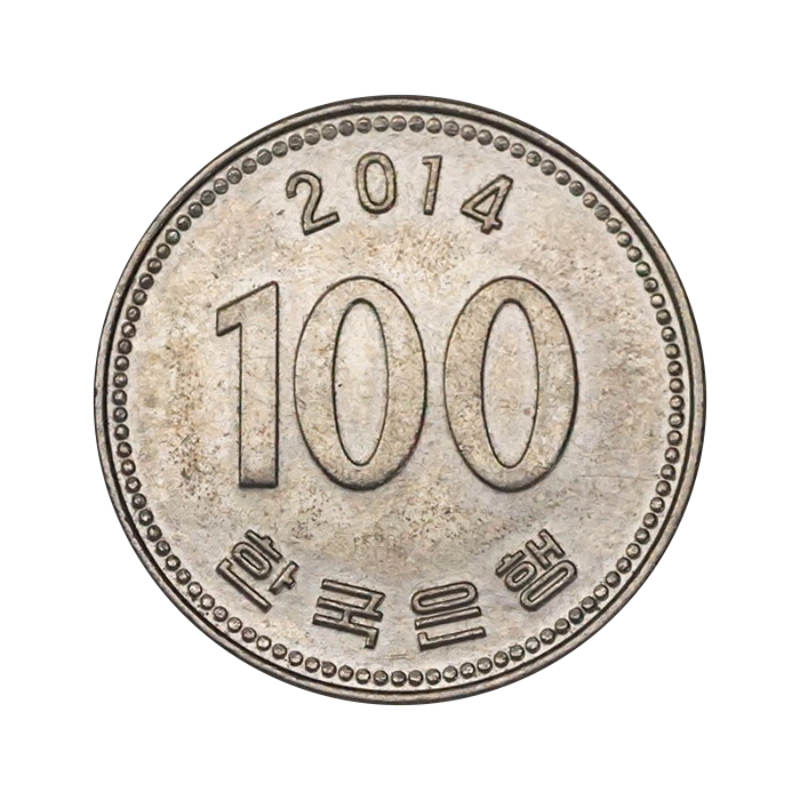
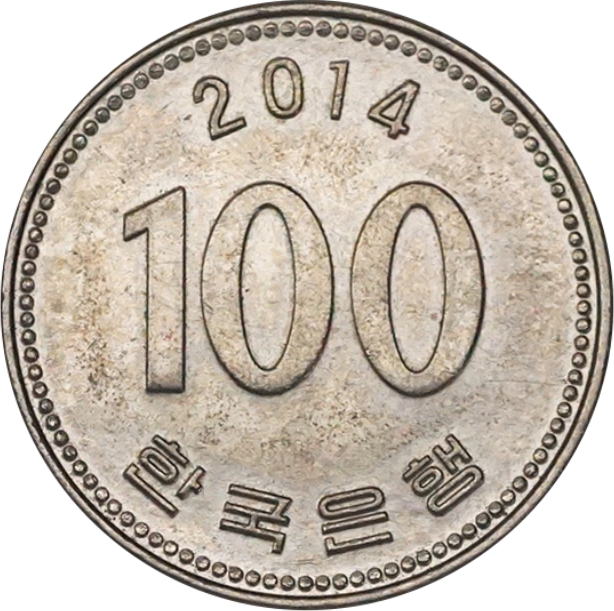
update ui

diff --git a/styles.css b/styles.css
@@ -1,6 +1,6 @@
 /* 디자인 시스템 — design-system.md §2~7. 고정 프레임(≤500px·100vh, §8.3). */
 :root {
-  --color-bg: #1e2126;
+  --color-bg: #9aa0a6;
   --color-surface: #2a2e35;
   --color-primary: #2f80ed;
   --color-success: #27ae60;
@@ -48,7 +48,9 @@ body {
   width: 100%;
   max-width: 500px; /* REQ-A18: 최대 500px */
   height: 100vh; /* REQ-A18: 100vh */
-  background: var(--color-bg);
+  background-image: url('/resources/wall.jpg');
+  background-size: 100% 100%;
+  background-repeat: no-repeat;
   position: relative;
   overflow: hidden;
   display: flex;
@@ -115,12 +117,12 @@ body {
   background-size: 100% 100%;
   background-repeat: no-repeat;
 }
-/* device 이미지 반투명화: foreground에 흰색 35% 오버레이 (screen-layouts §2) */
+/* device 이미지 반투명화: foreground에 흰색 20% 오버레이 (screen-layouts §2) */
 .device::before {
   content: '';
   position: absolute;
   inset: 0;
-  background: rgba(255, 255, 255, 0.35);
+  background: rgba(255, 255, 255, 0.2);
   pointer-events: none;
   z-index: 0;
 }
@@ -133,8 +135,8 @@ body {
 
 /* ⑤ 상품 그리드 3×3 (좌상단) */
 .grid {
-  top: 6%;
-  left: 3%;
+  top: 4%;
+  left: 5%;
   width: 60%;
   height: 66%;
   display: grid;
@@ -224,8 +226,8 @@ body {
 /* ② 잔액 표시 (우상단) */
 .balance {
   top: 8%;
-  right: 3%;
-  width: 34%;
+  right: 2%;
+  width: 30%;
   height: 9%;
   background: var(--color-display-bg);
   color: var(--color-display-fg);
@@ -244,8 +246,8 @@ body {
 /* ① 투입 공간 (우측 중단) */
 .drop {
   top: 22%;
-  right: 3%;
-  width: 34%;
+  right: 2%;
+  width: 30%;
   height: 22%;
   border: 2px dashed var(--color-warning);
   border-radius: 8px;
@@ -269,8 +271,8 @@ body {
 /* ⓡ 반환 버튼 (① 바로 아래) */
 .refund {
   top: 46%;
-  right: 3%;
-  width: 34%;
+  right: 2%;
+  width: 30%;
   height: 7%;
   border: 2px solid var(--color-danger);
   color: var(--color-danger);
@@ -287,10 +289,10 @@ body {
 
 /* ③ 배출 공간 (좌하단) */
 .dispense {
-  bottom: 7%;
-  left: 15%;
-  width: 44%;
-  height: 16%;
+  bottom: 9%;
+  left: 12%;
+  width: 55%;
+  height: 14%;
   background: rgba(0, 0, 0, 0.6);
   border: 2px solid #444;
   border-radius: 6px;
@@ -354,16 +356,19 @@ body {
 }
 .chip {
   cursor: grab;
-  border-radius: 999px;
   overflow: hidden;
-  border: 2px solid #3a3f47;
   background: #fff;
   transition: transform 0.1s;
-  width: 54px;
   height: 54px;
   display: flex;
   align-items: center;
   justify-content: center;
+}
+#coin {
+  border-radius: 999px;
+  width: 54px;
+}
+#bill {
 }
 .chip img {
   width: 100%;

diff --git a/salesView.ts b/salesView.ts
@@ -5,9 +5,9 @@ import type { MachineView, ProductView } from './client.js';
 import { clear, errorMessage, h, toast, won } from './ui.js';
 
 const DENOMS = [
-  { denom: 100, src: '/resources/100.png' },
-  { denom: 500, src: '/resources/500.png' },
-  { denom: 1000, src: '/resources/1000.jpeg' }, // ⚠️ jpeg (design-system §8)
+  { denom: 100, src: '/resources/100.png', type: 'coin' },
+  { denom: 500, src: '/resources/500.png', type: 'coin' },
+  { denom: 1000, src: '/resources/1000.jpeg', type: 'bill' }, // ⚠️ jpeg (design-system §8)
 ];
 const AUTO_RETURN_SEC = 10; // §3.3
 
@@ -19,7 +19,7 @@ export function renderSales(root: HTMLElement): () => void {
   const grid = h('div', { class: 'overlay grid' });
   const balance = h('div', { class: 'overlay balance', 'aria-live': 'polite', text: '₩0' });
   const drop = h('div', { class: 'overlay drop', text: '💰 여기에 돈을 넣으세요' });
-  const refundBtn = h('button', { class: 'overlay refund', text: '반환' }) as HTMLButtonElement;
+  const refundBtn = h('button', { class: 'overlay refund', text: '잔액 반환' }) as HTMLButtonElement;
   const dispense = h('div', { class: 'overlay dispense', text: '' });
   const statusline = h('div', { class: 'statusline', 'aria-live': 'assertive' });
   const device = h('div', { class: 'device' }, [grid, balance, drop, refundBtn, dispense, statusline]);
@@ -27,16 +27,30 @@ export function renderSales(root: HTMLElement): () => void {
 
   // ④ 화폐 트레이 (무한 소스 드래그 칩)
   const tray = h('div', { class: 'tray' });
-  for (const { denom, src } of DENOMS) {
+  for (const { denom, src, type } of DENOMS) {
     const img = h('img', { src, alt: `${denom}원`, draggable: 'false' });
-    const chip = h('div', {
-      class: 'chip',
-      draggable: 'true',
-      role: 'button',
-      tabindex: '0',
-      title: `${denom.toLocaleString()}원 투입`,
-      'aria-label': `${denom}원 투입`,
-    }, [img]);
+    let chip;
+    if (type == 'coin') {
+      chip = h('div', {
+        class: 'chip',
+        id: 'coin',
+        draggable: 'true',
+        role: 'button',
+        tabindex: '0',
+        title: `${denom.toLocaleString()}원 투입`,
+        'aria-label': `${denom}원 투입`,
+      }, [img]);
+    } else {
+      chip = h('div', {
+        class: 'chip',
+        id: 'bill',
+        draggable: 'true',
+        role: 'button',
+        tabindex: '0',
+        title: `${denom.toLocaleString()}원 투입`,
+        'aria-label': `${denom}원 투입`,
+      }, [img]);
+    }
     chip.addEventListener('dragstart', (e) => {
       e.dataTransfer?.setData('text/denom', String(denom));
       chip.classList.add('dragging');

diff --git a/tests/admin.test.ts b/tests/admin.test.ts
@@ -37,15 +37,15 @@ describe('가격 변경 (BR-B6)', () => {
     expect(findProduct(m, 'cola')!.basePrice).toBe(1600);
   });
 
-  it('TC-B06: 범위 밖(50, 10500) 거부, 값 불변', () => {
+  it('TC-B06: 범위 밖(50, 100,000) 거부, 값 불변', () => {
     expect(setBasePrice(m, 'cola', 50).ok).toBe(false);
-    expect(setBasePrice(m, 'cola', 10500).ok).toBe(false);
+    expect(setBasePrice(m, 'cola', 100000).ok).toBe(false);
     expect(findProduct(m, 'cola')!.basePrice).toBe(1500);
   });
 
-  it('TC-B17: 경계값 100·10,000 허용', () => {
+  it('TC-B17: 경계값 100·99,999 허용', () => {
     expect(setBasePrice(m, 'cola', 100).ok).toBe(true);
-    expect(setBasePrice(m, 'cola', 10000).ok).toBe(true);
+    expect(setBasePrice(m, 'cola', 99999).ok).toBe(true);
   });
 });
 

diff --git a/adminView.ts b/adminView.ts
@@ -51,7 +51,7 @@ export function renderAdmin(root: HTMLElement): () => void {
     );
     const tbody = h('tbody');
     for (const p of v.products) {
-      const price = h('input', { type: 'number', value: String(p.basePrice), min: '100', max: '10000' }) as HTMLInputElement;
+      const price = h('input', { type: 'number', value: String(p.basePrice), min: '100', max: '99999' }) as HTMLInputElement;
       const qty = h('input', { type: 'number', value: String(p.qty), min: '0' }) as HTMLInputElement;
       const save = h('button', { class: 'btn', text: '저장' });
       save.addEventListener('click', async () => {
@@ -76,7 +76,7 @@ export function renderAdmin(root: HTMLElement): () => void {
     // + 상품 추가 (최대 9개, BR-B10)
     const atMax = v.products.length >= 9;
     const nameIn = h('input', { class: 'name', placeholder: '상품명' }) as HTMLInputElement;
-    const priceIn = h('input', { type: 'number', placeholder: '기본가', min: '100', max: '10000', value: '1000' }) as HTMLInputElement;
+    const priceIn = h('input', { type: 'number', placeholder: '기본가', min: '100', max: '99999', value: '1000' }) as HTMLInputElement;
     const qtyIn = h('input', { type: 'number', placeholder: '수량', min: '0', value: '5' }) as HTMLInputElement;
     const addBtn = h('button', { class: 'btn', text: '+ 상품 추가' }) as HTMLButtonElement;
     addBtn.disabled = atMax;

diff --git a/coverage/admin.ts.html b/coverage/admin.ts.html
@@ -217,7 +217,7 @@ export function setQty(machine: Machine, productId: string, qty: number): AdminR
   return { ok: true };
 }
 &nbsp;
-/** 기본가 변경. 100~10,000 범위(경계 포함, BR-B6). */
+/** 기본가 변경. 100~99,999 범위(경계 포함, BR-B6). */
 export function setBasePrice(machine: Machine, productId: string, price: number): AdminResult {
   const product = findProduct(machine, productId);
   if (!product) <span class="branch-0 cbranch-no" title="branch not covered" >return { ok: false, error: 'NOT_FOUND' };</span>
@@ -251,7 +251,7 @@ export function setCoinCount(machine: Machine, denom: Denomination, count: numbe
   return { ok: true };
 }
 &nbsp;
-/** 기본가 유효성 (§3.2, BR-B6, 경계 100·10,000 허용). */
+/** 기본가 유효성 (§3.2, BR-B6, 경계 100·99,999 허용). */
 export function isValidPrice(price: number): boolean {
   return Number.isInteger(price) &amp;&amp; price &gt;= MIN_BASE_PRICE &amp;&amp; price &lt;= MAX_BASE_PRICE;
 }

diff --git a/domain/admin.ts b/domain/admin.ts
@@ -24,7 +24,7 @@ export function setQty(machine: Machine, productId: string, qty: number): AdminR
   return { ok: true };
 }
 
-/** 기본가 변경. 100~10,000 범위(경계 포함, BR-B6). */
+/** 기본가 변경. 100~99,999 범위(경계 포함, BR-B6). */
 export function setBasePrice(machine: Machine, productId: string, price: number): AdminResult {
   const product = findProduct(machine, productId);
   if (!product) return { ok: false, error: 'NOT_FOUND' };
@@ -58,7 +58,7 @@ export function setCoinCount(machine: Machine, denom: Denomination, count: numbe
   return { ok: true };
 }
 
-/** 기본가 유효성 (§3.2, BR-B6, 경계 100·10,000 허용). */
+/** 기본가 유효성 (§3.2, BR-B6, 경계 100·99,999 허용). */
 export function isValidPrice(price: number): boolean {
   return Number.isInteger(price) && price >= MIN_BASE_PRICE && price <= MAX_BASE_PRICE;
 }

diff --git a/coverage/types.ts.html b/coverage/types.ts.html
@@ -245,7 +245,7 @@ export type SessionState = 'IDLE' | 'ACTIVE' | 'DISPENSING' | 'RETURNING';
 export interface Product {
   id: string;
   name: string;
-  /** 기본가 — 관리자가 관리 (100~10,000, BR-B6) */
+  /** 기본가 — 관리자가 관리 (100~99,999, BR-B6) */
   basePrice: number;
   /** 재고 수량 (INV-6: 0 미만 불가) */
   qty: number;

diff --git a/domain/types.ts b/domain/types.ts
@@ -20,7 +20,7 @@ export type SessionState = 'IDLE' | 'ACTIVE' | 'DISPENSING' | 'RETURNING';
 export interface Product {
   id: string;
   name: string;
-  /** 기본가 — 관리자가 관리 (100~10,000, BR-B6) */
+  /** 기본가 — 관리자가 관리 (100~99,999, BR-B6) */
   basePrice: number;
   /** 재고 수량 (INV-6: 0 미만 불가) */
   qty: number;

diff --git a/ui.ts b/ui.ts
@@ -43,7 +43,7 @@ export function errorMessage(code: string): string {
     SOLD_OUT: '품절된 상품입니다',
     INSUFFICIENT_CHANGE: '거스름돈이 부족합니다 — 잠시 후 다시 시도하세요',
     BUSY: '처리 중입니다. 잠시만 기다려 주세요',
-    PRICE_OUT_OF_RANGE: '기본가는 100~10,000원만 가능합니다',
+    PRICE_OUT_OF_RANGE: '기본가는 100~99,999원만 가능합니다',
     NEGATIVE_QTY: '수량은 0 미만이 될 수 없습니다',
     NEGATIVE_COIN: '잔돈 개수는 0 미만이 될 수 없습니다',
     MAX_PRODUCTS: '상품은 최대 9개까지 가능합니다',

diff --git a/docs/requirements/admin-screen.md b/docs/requirements/admin-screen.md
@@ -20,7 +20,7 @@
 |----|----------|------|
 | REQ-B1 | 재고 목록(상품명·기본가·수량)을 조회한다. | admin-mode B-3.1 |
 | REQ-B2 | 상품 수량을 보충/차감한다(결과 음수 불가). | BR-B4 |
-| REQ-B3 | 상품 기본가를 **100~10,000원** 범위로 변경한다(범위 밖 거부, 경계 허용). | BR-B6 |
+| REQ-B3 | 상품 기본가를 **100~99,999원** 범위로 변경한다(범위 밖 거부, 경계 허용). | BR-B6 |
 | REQ-B12 | 상품은 **최대 9개**까지 추가할 수 있다(초과 추가 거부). | BR-B10 |
 | REQ-B4 | 잔돈 보유량을 화폐단위(1,000/500/100)별 개수·총액으로 조회한다. | B-3.2 |
 | REQ-B5 | 잔돈을 단위별로 보충/회수한다(결과 음수 불가). | BR-B5 |
@@ -44,8 +44,8 @@
 | TC-B03 | REQ-B2,B7 | TC-B02 이후 | 판매 화면 이동 | 콜라 "품절"→"구매가능/금액부족"으로 전환 |
 | TC-B04 | BR-B4 | 콜라 수량 2 | 수량 -5(→-3) 시도 | 거부, 수량 불변 |
 | TC-B05 | REQ-B3 | 콜라 1500 | 가격 1600으로 변경·저장 | 저장 성공, 판매 화면 가격 1600 반영 |
-| TC-B06 | BR-B6 | 임의 상품 | 가격 50 또는 10,500 시도 | 거부(범위 100~10,000), 값 불변 |
-| TC-B17 | BR-B6 | 임의 상품 | 가격 100 / 10,000(경계) 저장 | 허용 |
+| TC-B06 | BR-B6 | 임의 상품 | 가격 50 또는 10,500 시도 | 거부(범위 100~99,999), 값 불변 |
+| TC-B17 | BR-B6 | 임의 상품 | 가격 100 / 99,999(경계) 저장 | 허용 |
 | TC-B18 | REQ-B12, BR-B10 | 상품 9개 등록 상태 | 10번째 상품 추가 시도 | 거부(최대 9개) |
 | TC-B19 | REQ-B12 | 상품 8개 | 9번째 상품 추가 | 허용, 총 9개(3×3 그리드 가득) |
 
@@ -82,4 +82,4 @@
 
 - REQ-B1 ~ B10, B12, B13 충족, TC-B01 ~ B20 Pass.
 - REQ-B11/TC-B16은 데이터 적재 구조 확인까지 (조회 UI는 이후 단계).
-- INV-6 위반 0건. INV-7(모드 공존·실시간 동기화) 충족. 상품 개수 ≤ 9, 기본가 ∈ [100, 10,000] 항상 성립.
+- INV-6 위반 0건. INV-7(모드 공존·실시간 동기화) 충족. 상품 개수 ≤ 9, 기본가 ∈ [100, 99,999] 항상 성립.

diff --git a/docs/ui/screen-layouts.md b/docs/ui/screen-layouts.md
@@ -24,7 +24,7 @@
 (이미지 경로는 프로젝트 루트 기준 `resources/…`, 문서에서의 상대경로는 `../../resources/…`.)
 
 > **프레임 제약**: 전체 화면은 **고정 프레임(최대 width 500px, height 100vh, 비하이브리드)** 안에 배치된다(헌법 §8.3, [design-system §7](design-system.md)). device 이미지는 이 프레임 폭에 맞춰 세로 비율을 유지하며 중앙 정렬한다.
-> **device 반투명화**: 오버레이 조작 영역의 가독성을 위해 device 이미지 위에 **흰색 35% foreground 오버레이**를 덧씌운다(오버레이 조작 요소는 그 위, `z-index` 상위).
+> **device 반투명화**: 오버레이 조작 영역의 가독성을 위해 device 이미지 위에 **흰색 20% foreground 오버레이**를 덧씌운다(오버레이 조작 요소는 그 위, `z-index` 상위).
 
 ### 2.1 전체 배치 개념도
 
@@ -56,7 +56,7 @@
 | ⑤ | **상품 그리드** (Product Grid) | 좌상단 · 3×3 (`top 6% / left 3% / w 60% / h 66%`) | 칸마다 상품 이미지(큐브)·재고·최종가. **품절 시 금액 회색·선택 불가**. 최대 9칸(헌법 §3.2) | 판매 ① |
 | ① | **투입 공간** (Money Drop Zone) | 우측 중단 · `top 22% / right 3% / w 34% / h 22%` | 점선+발광 테두리, "여기에 돈을 넣으세요" 라벨, 드래그 오버 시 하이라이트 | 판매 ② |
 | ② | **잔액 표시** (Balance Display) | ① 바로 위 · `top 8% / right 3% / w 34% / h 9%` | LED 스타일 대형 숫자(₩ 접두), 고대비 | 판매 ③ |
-| ⓡ | **반환 버튼** (Refund) | ① **바로 아래** · `top 46% / right 3% / w 34% / h 7%` | "반환" 라벨 버튼(`--color-danger` 계열), 누르면 잔여 잔액 반환·세션 종료(A-3.5) | 판매(반환) |
+| ⓡ | **반환 버튼** (Refund) | ① **바로 아래** · `top 46% / right 3% / w 34% / h 7%` | "잔액 반환" 라벨 버튼(`--color-danger` 계열), 누르면 잔여 잔액 반환·세션 종료(A-3.5) | 판매(반환) |
 | ③ | **배출 공간** (Dispense Zone) | 좌하단 · `bottom 3% / left 3% / w 44% / h 16%` | 어두운 개구부 + 강조 테두리, 배출 시 내부 발광 | 판매 ④ |
 | ④ | **화폐 트레이** (Money Tray) | device 하단 바깥, 뷰포트 중앙 | `resources/100.png · 500.png · 1000.jpeg`를 드래그 가능한 칩으로 정렬(무한 소스) | 판매 ⑥ |
 
@@ -78,7 +78,7 @@
 │  [ 재고 관리 ] [ 잔돈 관리 ] [ 매출 ] [로그*]  │  ← 탭
 ├───────────────────────────────────────────────┤
 │  (선택 탭 콘텐츠)                               │
-│  재고 관리 예 (상품 최대 9개, 기본가 100~10000):│
+│  재고 관리 예 (상품 최대 9개, 기본가 100~99999):│
 │   상품    기본가    수량    조작                │
 │   콜라   [1500]   [ 8 ]   [저장]                │
 │   사이다 [1200]   [ 5 ]   [저장]                │
@@ -86,7 +86,7 @@
 └───────────────────────────────────────────────┘
 ```
 `*로그` 탭은 예정(planned) — 비활성 또는 "준비 중" 표시.
-`[+ 상품 추가]`는 상품이 9개면 비활성(BR-B10). 기본가 입력은 100~10,000원으로 제한(BR-B6).
+`[+ 상품 추가]`는 상품이 9개면 비활성(BR-B10). 기본가 입력은 100~99,999원으로 제한(BR-B6).
 
 ---
 

diff --git a/docs/business/admin-mode.md b/docs/business/admin-mode.md
@@ -30,7 +30,7 @@
 - 조회: 상품별 `상품명, 기본가, 수량` 목록.
 - 변경 가능 항목:
   - 수량 보충/차감 (결과 값 0 미만 불가 — INV-6)
-  - **기본가** 변경 (**100 ~ 10,000원**, 범위 밖 입력 거부 — BR-B6)
+  - **기본가** 변경 (**100 ~ 99,999원**, 범위 밖 입력 거부 — BR-B6)
   - 상품 추가/제거 (**최대 9개**까지, 9개 상태에서 추가 거부 — BR-B10). 판매 화면 **3×3 그리드**(sales-mode A-3.1)와 슬롯 수가 일치. 최소한 예제 4종은 시드.
 - 변경은 즉시 판매 모드의 상품 디스플레이에 반영된다(상태 단일 출처).
 - > 관리자는 **기본가**를 관리한다. 판매 화면에 노출/청구되는 **최종가**는 동적 가격(+500)·프로모 할인(−500)이 자동 반영된 파생값이다(sales-mode A-7.2). 재고를 3개 이하로 두면 동적 인상이 발동함에 유의.
@@ -78,7 +78,7 @@
 |----|------|------|
 | BR-B4 | 재고 수량을 음수로 만드는 변경 | 거부 |
 | BR-B5 | 잔돈 개수를 음수로 만드는 회수 | 거부 |
-| BR-B6 | 기본가를 **100~10,000원 범위 밖**으로 설정 | 거부 (경계 100·10,000은 허용) |
+| BR-B6 | 기본가를 **100~99,999원 범위 밖**으로 설정 | 거부 (경계 100·99,999은 허용) |
 | BR-B7 | 재고/가격 변경 | **모든 판매 탭에 실시간(SSE) 반영**(INV-7) — 최종가·품절·색상 재평가 |
 | BR-B8 | 잔돈 보충 | 판매 모드 거스름돈 가용성 증가 |
 | BR-B9 | 모든 관리자 변경 | 영속 저장 + (예정) 감사 로그 적재 |